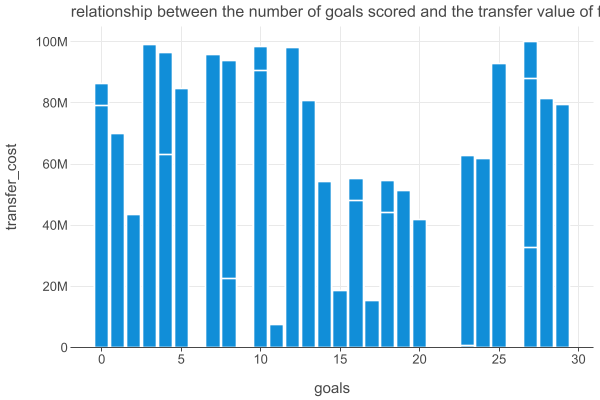
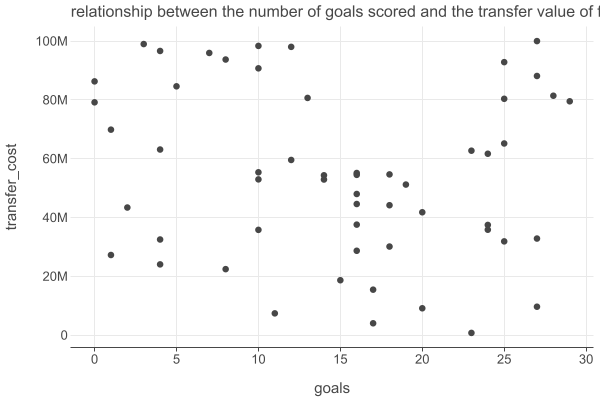
действительно добавил в gitignore, CVSparser используется как объект

diff --git a/src/main/kotlin/parser/CsvParser.kt b/src/main/kotlin/parser/CsvParser.kt
@@ -44,7 +44,7 @@ object CsvParser {
                 red_cards = it[11].toInt()
             )
             players.add(player)
-            var team = teams.find {it.name == player.team}
+            val team = teams.find {it.name == player.team}
             if (team != null) {
                 team.players.add(player)
             }